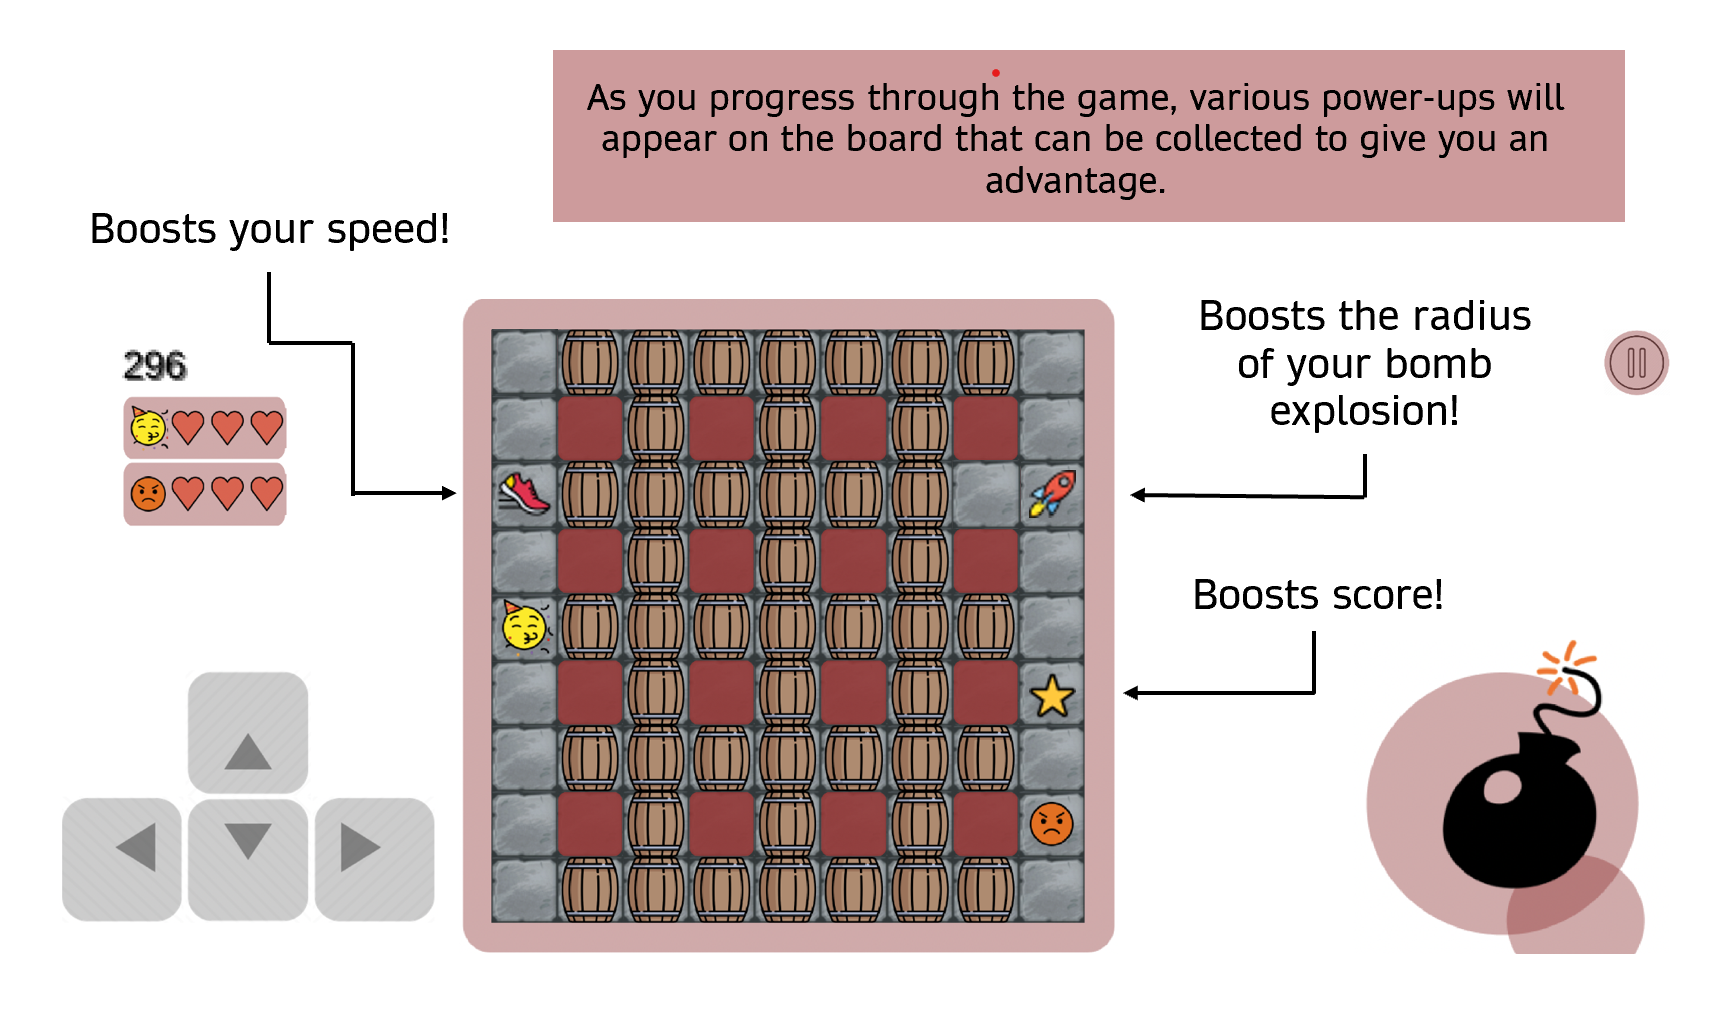
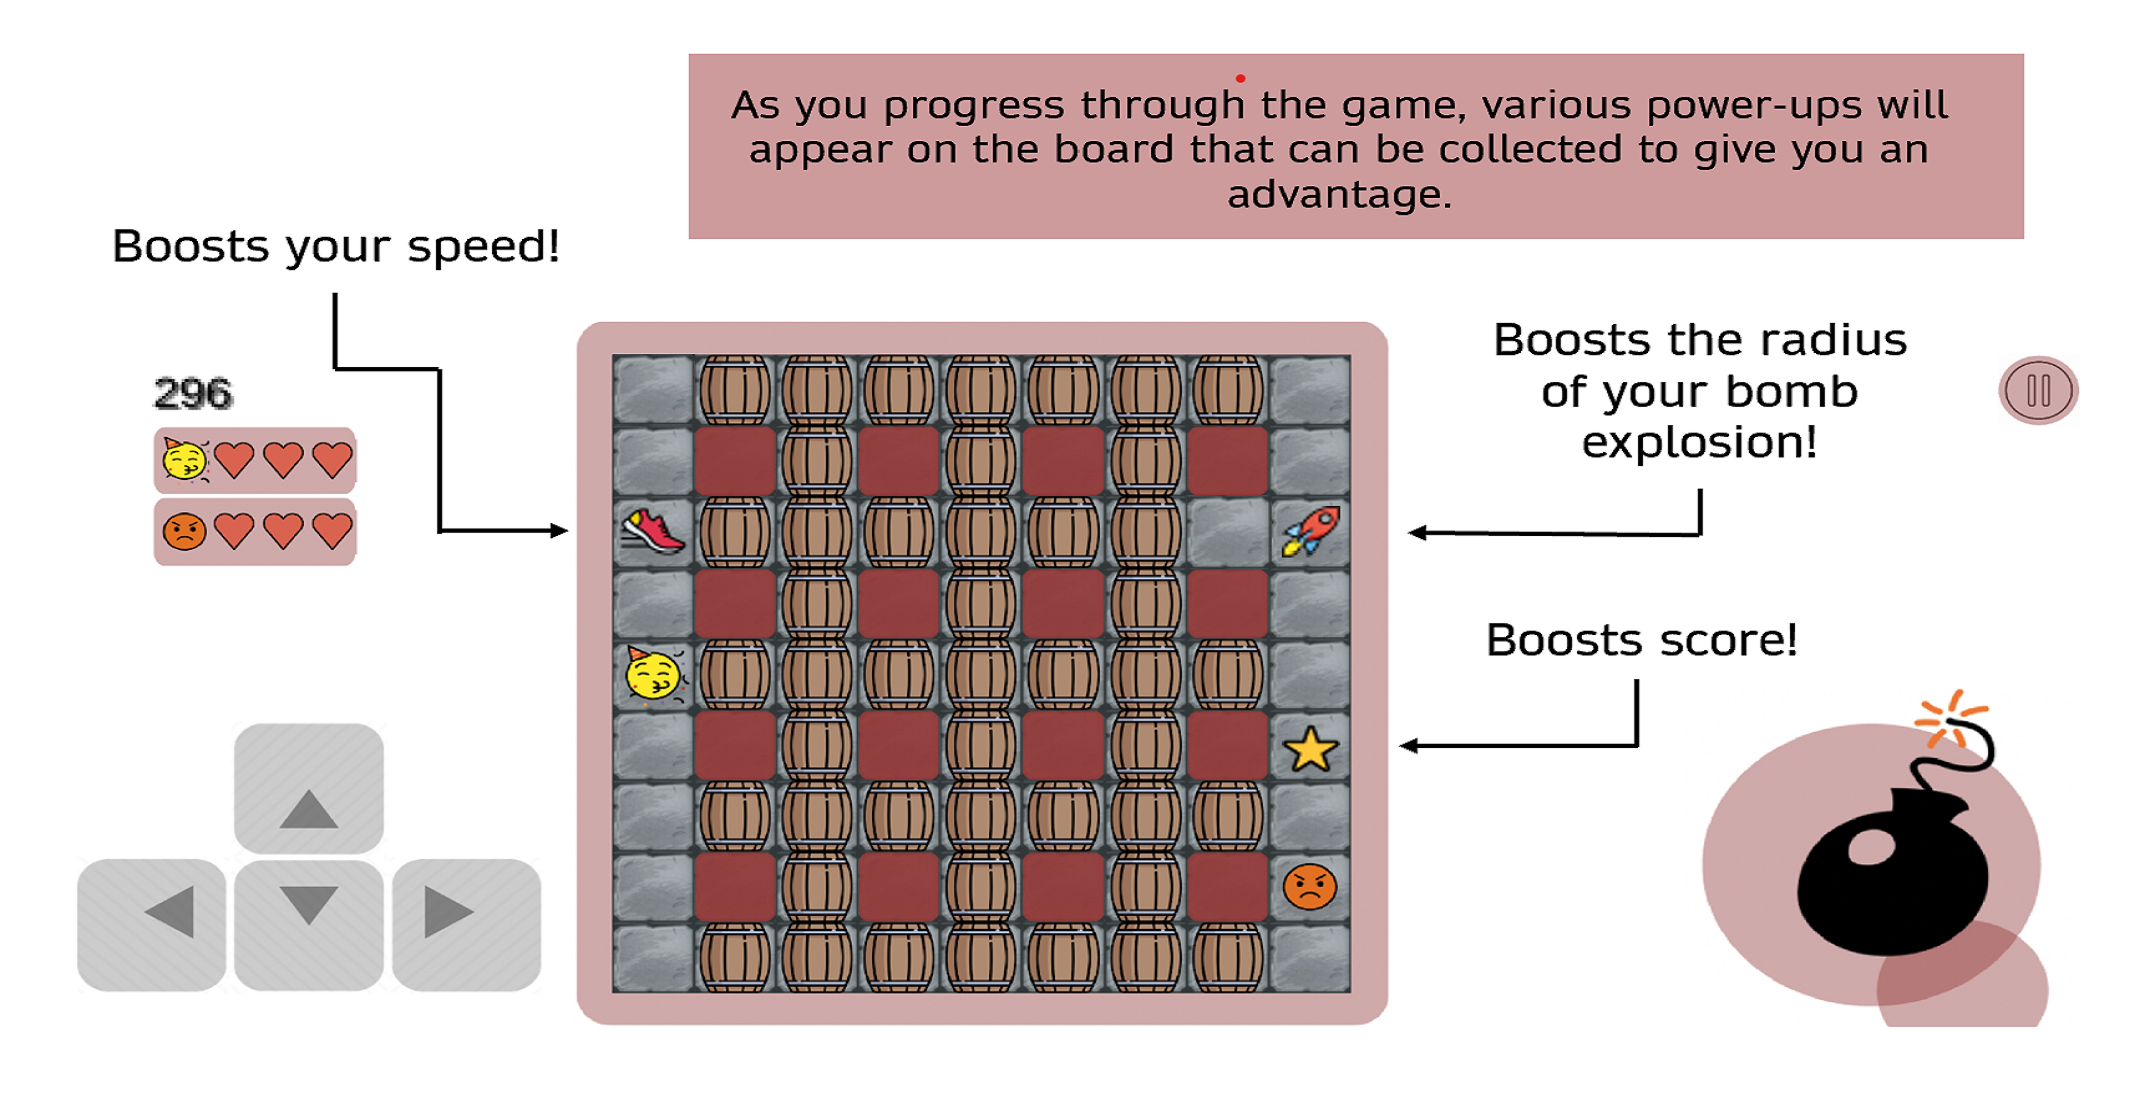
Update: Fixed images in tutorial

diff --git a/core/src/com/mygdx/tdt4240/states/TutorialState.kt b/core/src/com/mygdx/tdt4240/states/TutorialState.kt
@@ -24,12 +24,16 @@ class TutorialState(
     private val tutorial2 = Texture("tutorial/Tutorial2.png")
     private val tutorial3 = Texture("tutorial/Tutorial3.png")
     private val tutorial4 = Texture("tutorial/Tutorial4.png")
+    private val tutorial5 = Texture("tutorial/Tutorial5.png")
+    private val tutorial6 = Texture("tutorial/Tutorial6.png")
     private val tutorial1Sprite= Sprite(tutorial1, Window().WIN_WIDTH, Window().WIN_HEIGHT+165)
     private val tutorial2Sprite= Sprite(tutorial2, Window().WIN_WIDTH, Window().WIN_HEIGHT+165)
     private val tutorial3Sprite= Sprite(tutorial3, Window().WIN_WIDTH, Window().WIN_HEIGHT+165)
     private val tutorial4Sprite= Sprite(tutorial4, Window().WIN_WIDTH, Window().WIN_HEIGHT+165)
+    private val tutorial5Sprite= Sprite(tutorial5, Window().WIN_WIDTH, Window().WIN_HEIGHT+165)
+    private val tutorial6Sprite= Sprite(tutorial6, Window().WIN_WIDTH, Window().WIN_HEIGHT+165)
 
-    private val imgArray= arrayOf(tutorial1Sprite, tutorial2Sprite, tutorial3Sprite, tutorial4Sprite)
+    private val imgArray= arrayOf(tutorial1Sprite, tutorial2Sprite, tutorial3Sprite, tutorial4Sprite, tutorial5Sprite, tutorial6Sprite)
     private var pointer=0
 
     private val stage = Stage()
